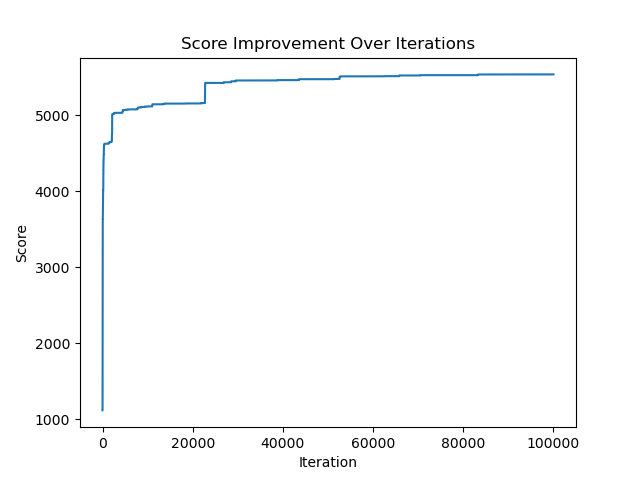
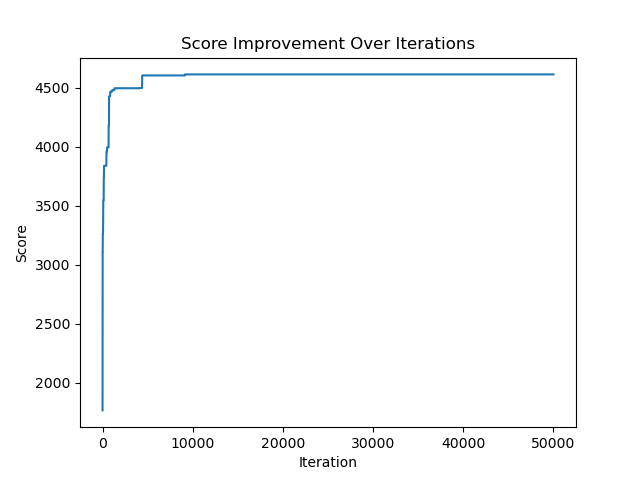
extra plots

diff --git a/main.py b/main.py
@@ -69,7 +69,7 @@ def main():
         ScoreDistribution(10000, Greedy, f'output/{args.region}score_distribution_greedy.png', f'Score Distribution Greedy, {args.region}', args.max_trajectories, all_connections, args.max_time)
 
     elif args.algorithm == 'hill_climber':
-        hill_climber = HillClimber(args.max_trajectories, all_connections, args.max_time, 100000, 1)
+        hill_climber = HillClimber(args.max_trajectories, all_connections, args.max_time, 50000, 4)
         hill_climber.run()
         hill_climber.plot_score_history(f'output/{args.region}/score_hillclimber.png')
         hillclimber_results = Base(hill_climber.all_trajectories, hill_climber.trajectory_count, all_connections)
